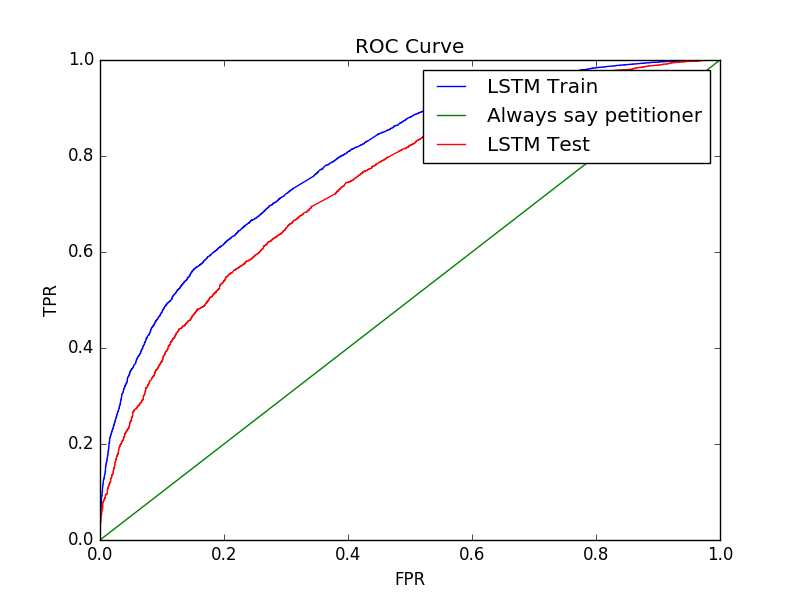
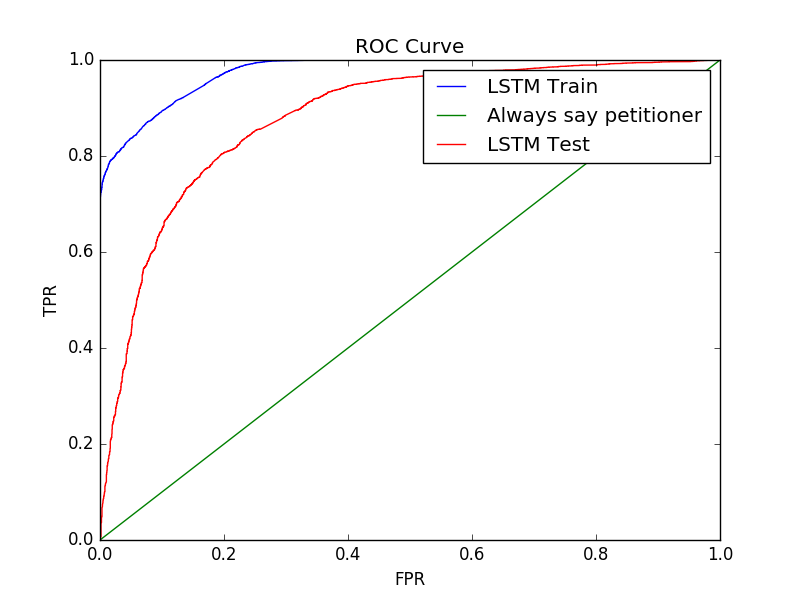
longer run

diff --git a/python/basic_lstm.py b/python/basic_lstm.py
@@ -84,7 +84,7 @@ model.compile(loss='binary_crossentropy',
 print('Train...')
 model.fit(x_train, y_train,
           batch_size=batch_size,
-          epochs=2,
+          epochs=20,
           validation_data=(x_test, y_test))
 score, acc = model.evaluate(x_test, y_test,
                             batch_size=batch_size)
